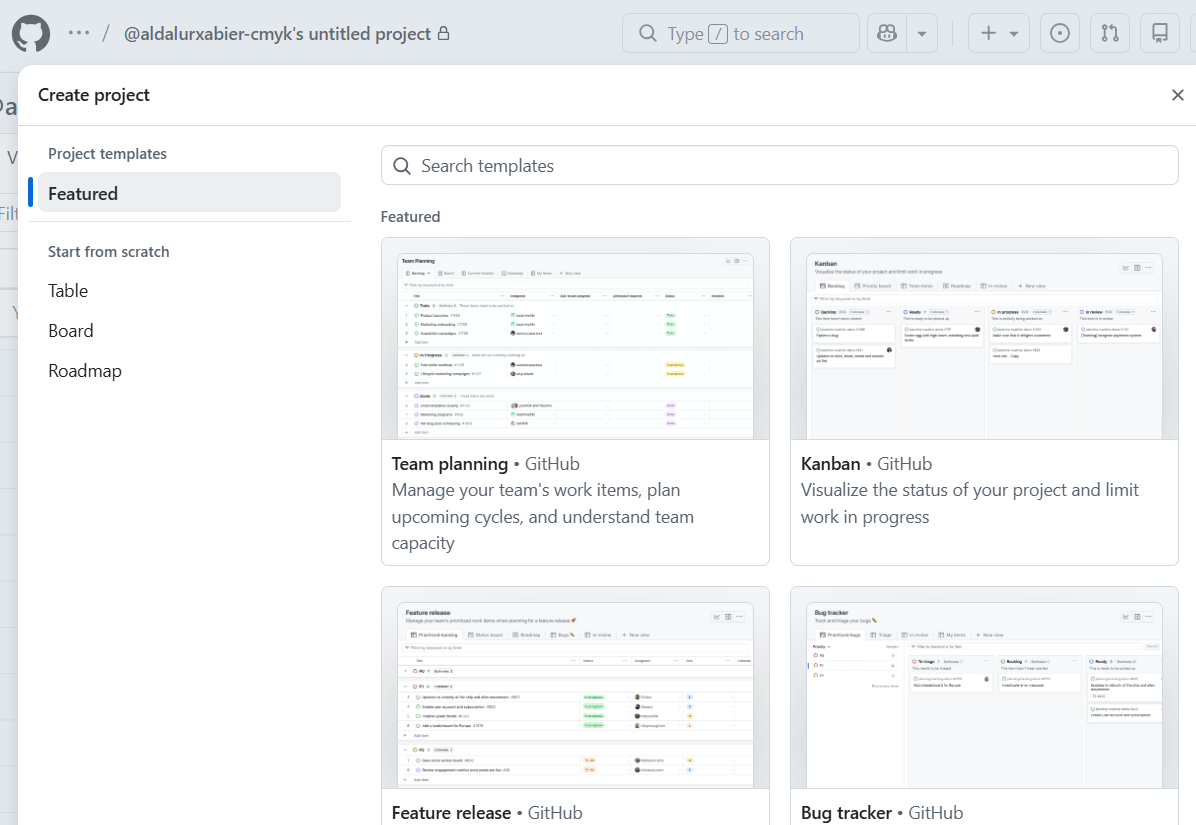
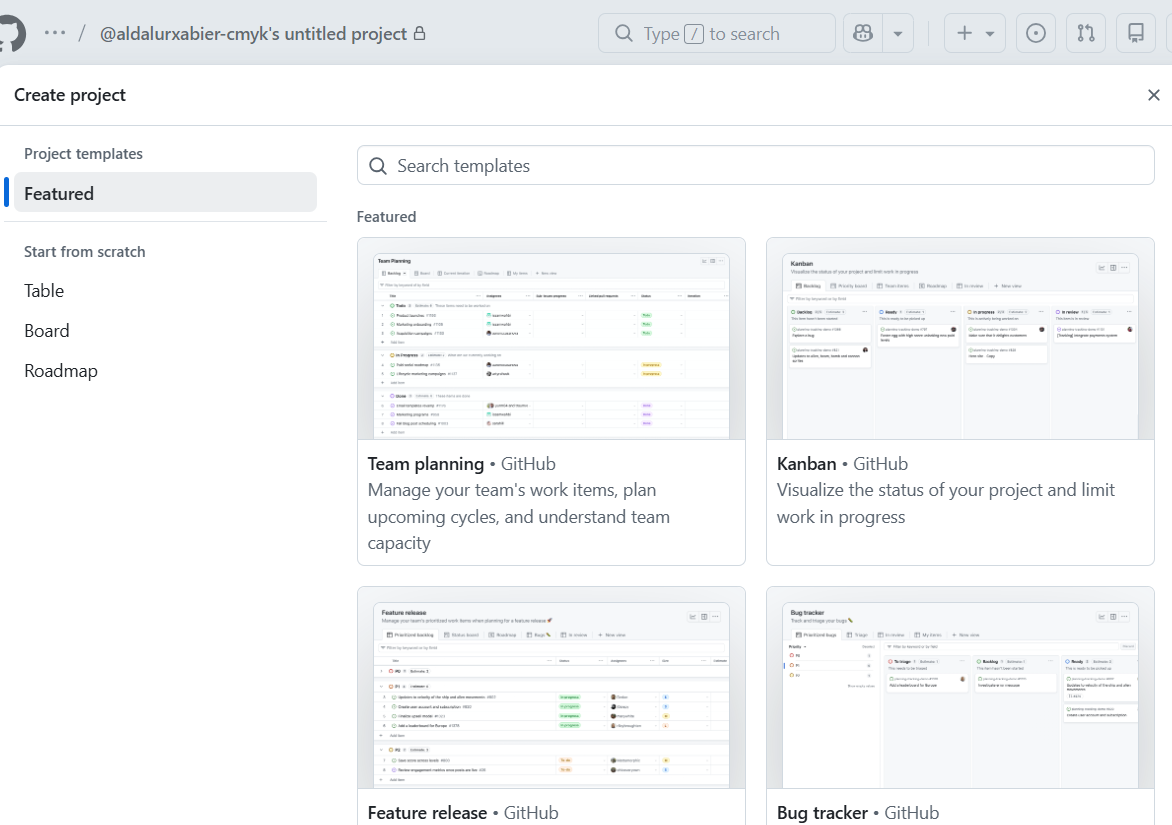
dsfgwea

diff --git a/doc/db.md b/doc/db.md
@@ -25,7 +25,7 @@ Bukatzeko denboraldi bakoitzak kapitulu bat edo gehiago ditu, eta kapitulu bakoi
 
 ![Mi foto](img/DB/ER%20diagrama.png)
 
-# 3. Eredu Erlazionala
+# 3. Eredu erlazionala
 ER diagrama amaitu eta gero, datu-basearen eredu erlazionala egin dugu. 
 
 ![Mi foto](img/DB/EreduErlazionala.png)
@@ -38,6 +38,6 @@ Normalizazioa eginda ↓
 
 [Sakatu hemen](normalizazioa/Normalizazioa.pdf)
 
-# 5. Datu Basea Access-en implementatu 
+# 5. Datu basea Access-en implementatu 
 Azkenik, datu-basea Access-en inplementatu dugu. Taulak eta haien arteko erlazioak sortuz. Horrela, informazioa modu egituratuan gorde, kontsultatu eta eguneratzeko aukera izango dugu
 
